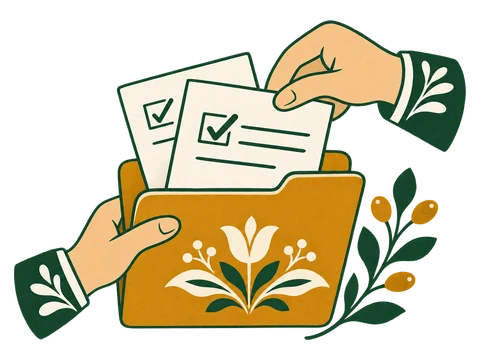
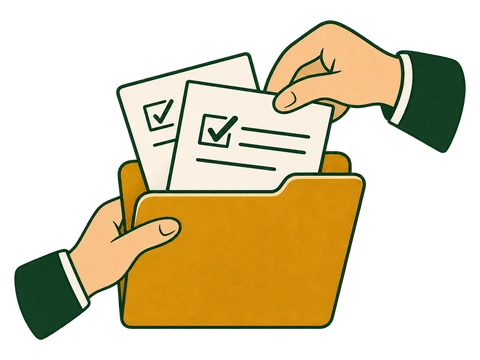
Remove folk ornament from the three step illustrations

diff --git a/CREDITS.md b/CREDITS.md
@@ -25,6 +25,16 @@ Każde polecenie zaczynało się tym samym opisem.
 - `krok-wyniki.webp` — Two parents, one in ochre and one in dark forest green, reviewing a small results sheet together with an abstract three-bar chart and a checkmark; a short leafy sprig alongside.
 - `krok-dokumenty.webp` — A parent's hands placing two ivory application sheets into an ochre folder, with simple green checkmarks and a short leafy sprig alongside.
 
+### Polecenia do usunięcia ornamentów
+
+Wbudowany imagegen otrzymał każdą z trzech ilustracji jako obraz do edycji.
+
+> Edit the attached small 4:3 spot illustration. Remove folk ornament and botanical decoration only. Keep the existing subject, approximate pose, composition, palette, delicate dark green outlines and lightly textured illustrated finish. Use truly transparent background outside the artwork. No new decorations, text, watermarks, or background.
+
+- `krok-wywiad.webp` — Remove the leafy border at the bottom, the sprig by the laptop, and every decorative floral print from dress and cup. Fill the recovered spaces with plain ochre clothing and plain tabletop/cup where appropriate. Keep the seated woman, open laptop with checkmarks, and the two question bubbles.
+- `krok-wyniki.webp` — Remove the garland at the bottom and sides, flowers, leaves, and printed motifs on the sleeves. Keep the same two parents, expressions, pointing gesture and report with three bars and a checkmark, using plain solid clothing.
+- `krok-dokumenty.webp` — Remove the decorative floral emblem on the ochre folder, the external leafy sprig and all leaf details on both cuffs. Keep the same two hands, plain green cuffs, plain ochre folder and the two checked ivory pages.
+
 ## Krój pisma
 
 IBM Plex Sans z Google Fonts, licencja SIL Open Font License 1.1. `front/index.html` wczytuje
